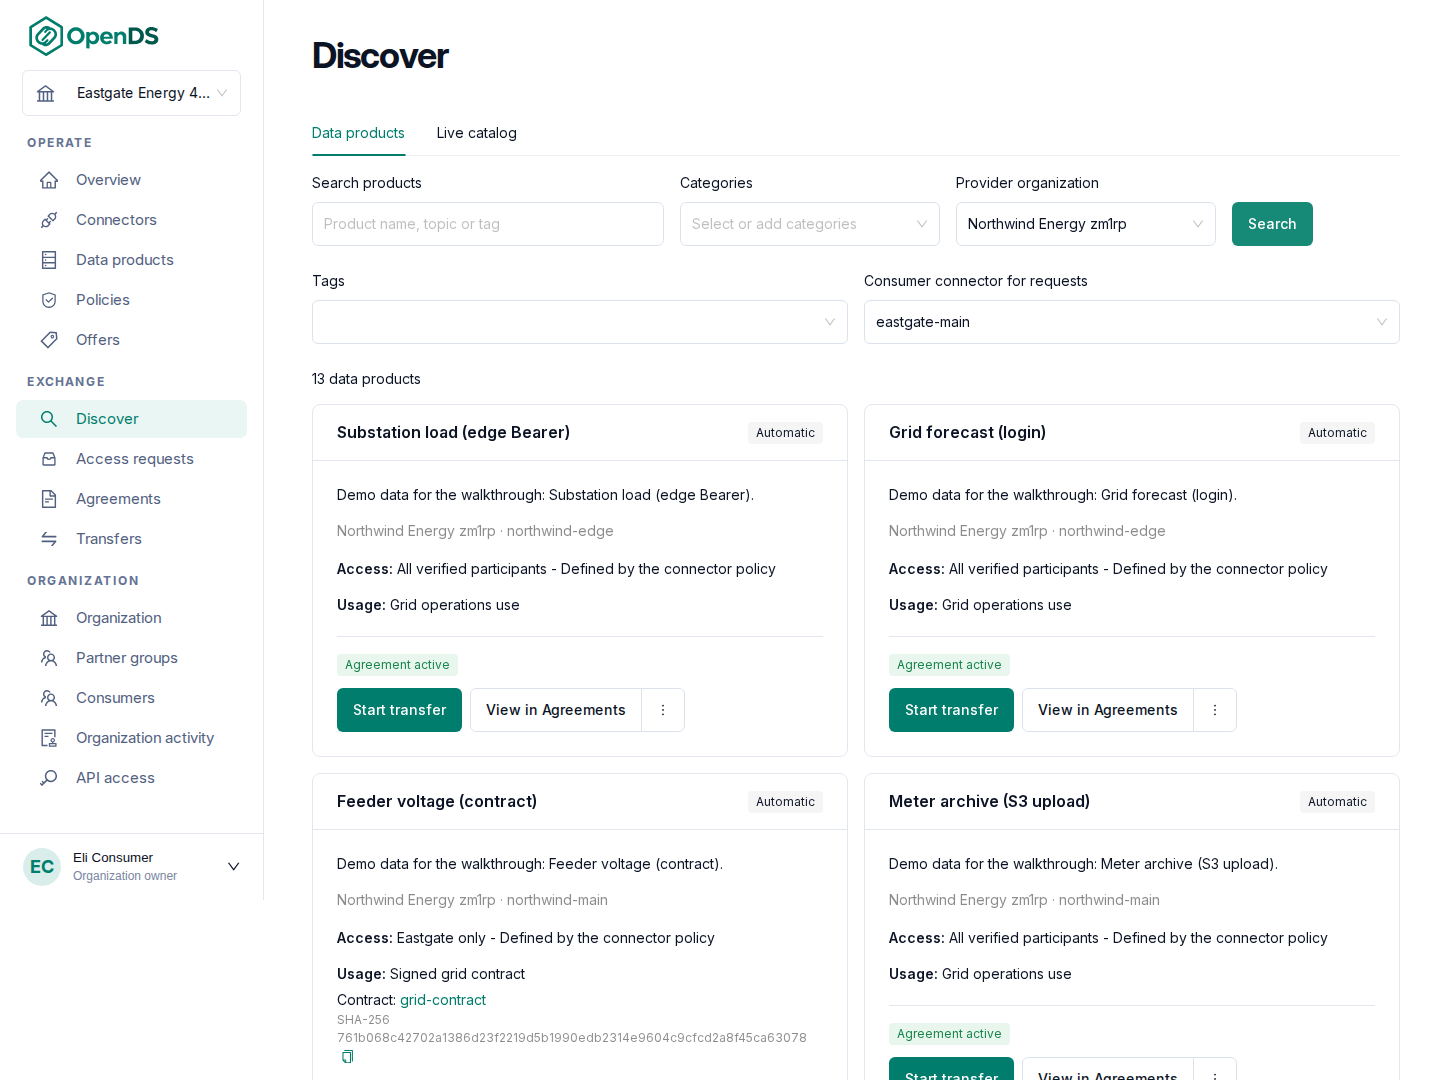
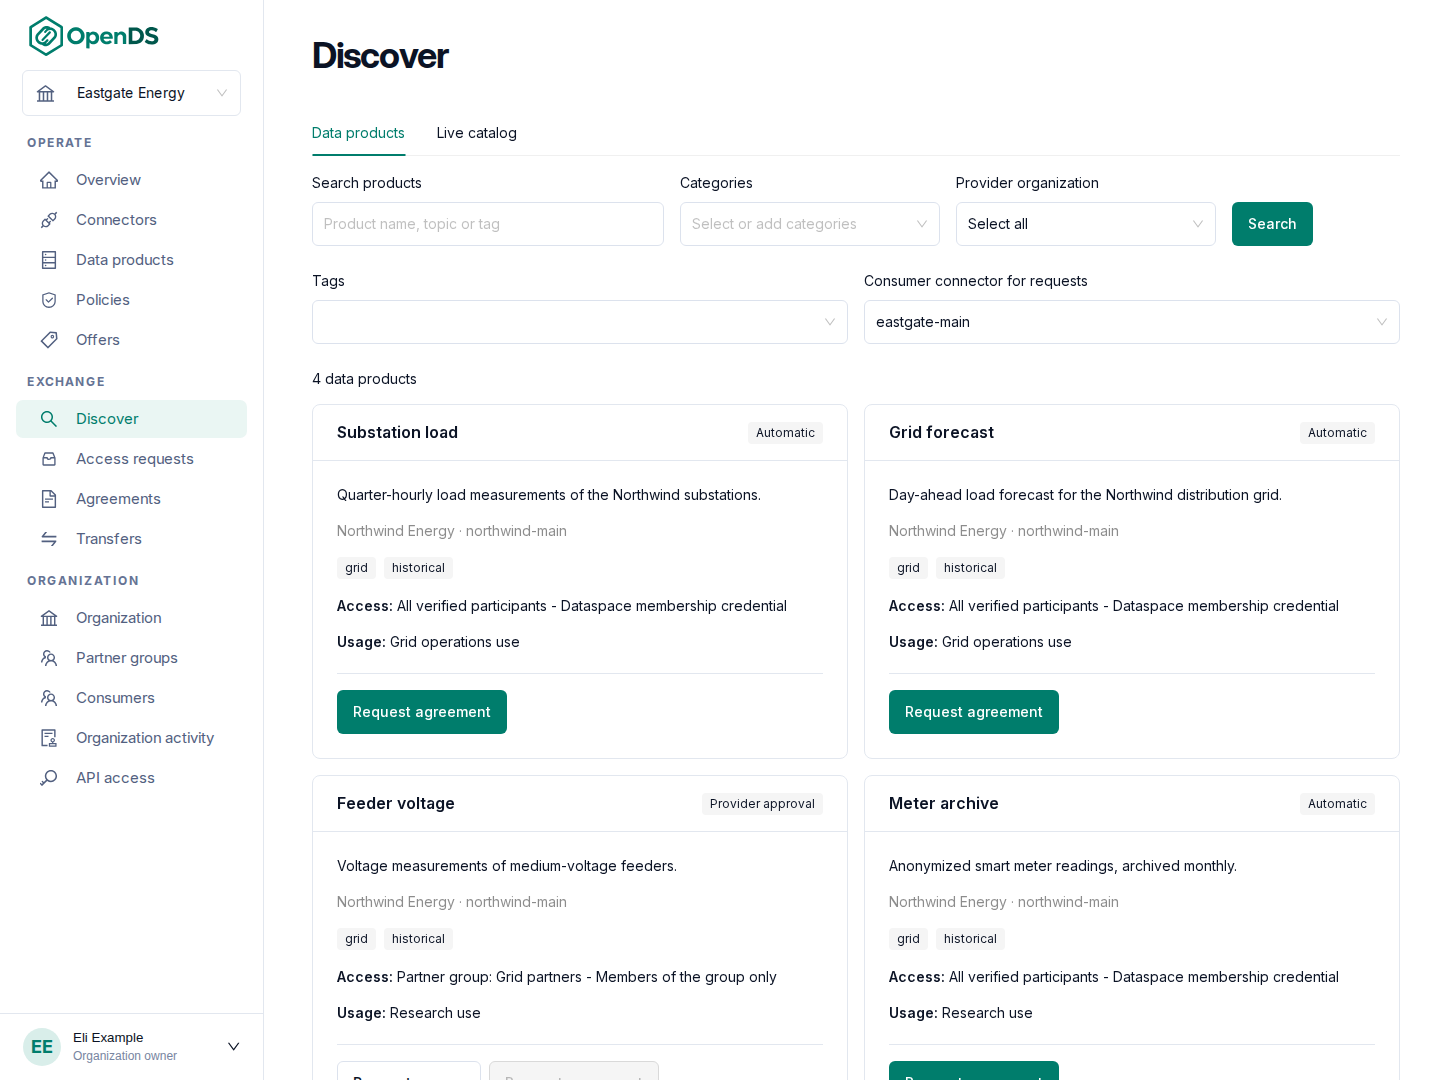
Docs: retake Discover and Transfers screenshots, add product form, connector Hosting tab and API Connect card

diff --git a/docs/user-guide/connectors.md b/docs/user-guide/connectors.md
@@ -42,13 +42,15 @@ self-hosting actions. **Export connector data** is under **More**.
   provisioned again, but its products, policies and offers are lost.
 - **List in discovery**: lets other organizations find the connector's offers under
   **Discover**. A connector that is not listed still exchanges data, but partners can only
-  reach it with its DSP address and your DID. The connector page shows both, as **Protocol
-  endpoint** and **DID**, each with a copy button.
+  reach it with its DSP address and your DID. The connector's **Hosting** tab shows both, as
+  **Protocol endpoint** and **DID**, each with a copy button.
 - **Export connector data**: saves the connector's data while it is online, to move it or keep
   a copy ([API](/user-guide/api#connector-data-export-and-import)).
 - **Delete**: removes the connector and its platform record. Stop a self-hosted connector on its
   host first, because OpenDS cannot erase a remote machine. If you need its products, policies and offers
   later, export them beforehand.
+
+![The Hosting tab of a connector, showing its DID and Protocol endpoint with copy buttons](../img/connector-hosting.png)
 
 Before a connector is deleted or deprovisioned, the confirmation offers **Download connector
 data first**, because OpenDS does not archive connector data itself. A paused or offline

diff --git a/docs/getting-started/first-data-exchange.md b/docs/getting-started/first-data-exchange.md
@@ -58,7 +58,7 @@ provider under **Provider organization**, then select **Search**. The offer appe
 together with its policies. Select **Request agreement**. After a few seconds, the agreement
 appears under **Agreements** with the status **Agreed**.
 
-![Discover lists the provider's data products as cards, each with its access and usage policy](../img/discover.png)
+![Discover lists the provider's data products as cards, each with its access and usage policy and a Request agreement button](../img/discover.png)
 
 ## 6. Get the data (consumer)
 
@@ -66,7 +66,7 @@ On the agreement, select **Start transfer**, choose **Pull** and start the trans
 **Download** under **Transfers**. The file is delivered directly from the provider's
 connector.
 
-![The Transfers page with a pull transfer and its Download button](../img/transfers.png)
+![The Transfers page with a running pull transfer and its Download, Access details, Suspend and Terminate buttons](../img/transfers.png)
 
 ## What next
 

diff --git a/docs/user-guide/publish-data.md b/docs/user-guide/publish-data.md
@@ -51,6 +51,8 @@ The settings and the secret are entered in two places:
   login request body. For self-hosted connectors, it is entered on the connector's own server
   ([Self-hosted connector](/self-hosting/self-hosted-connector#source-passwords-and-cloud-keys)).
 
+![The Data source section of the New data product form, with Source type, Provider source URL and HTTP source authentication set to Bearer token](../img/product-form.png)
+
 The credentials stay on the connector and are never stored in OpenDS. For a platform-hosted
 connector, a login service on a private network must first be allowed by the dataspace operator
 ([Configuration](/administration/configuration#private-networks)).

diff --git a/docs/user-guide/api.md b/docs/user-guide/api.md
@@ -16,6 +16,8 @@ x-tenant-id: <organization-id>
 The organization ID is shown under **API access**, in the **Connect** card, in the row for your
 organization, with a copy button.
 
+![The Connect card under API access, with the base URL and the organization ID](../img/api-connect.png)
+
 Creating a key asks for your password and an expiry, which is 90 days by default. An expired
 key stops working within a minute. The API guide in the app has curl and Python examples, including
 file downloads and uploads. With `EDGE_TLS=internal`, clients must trust the dataspace CA
